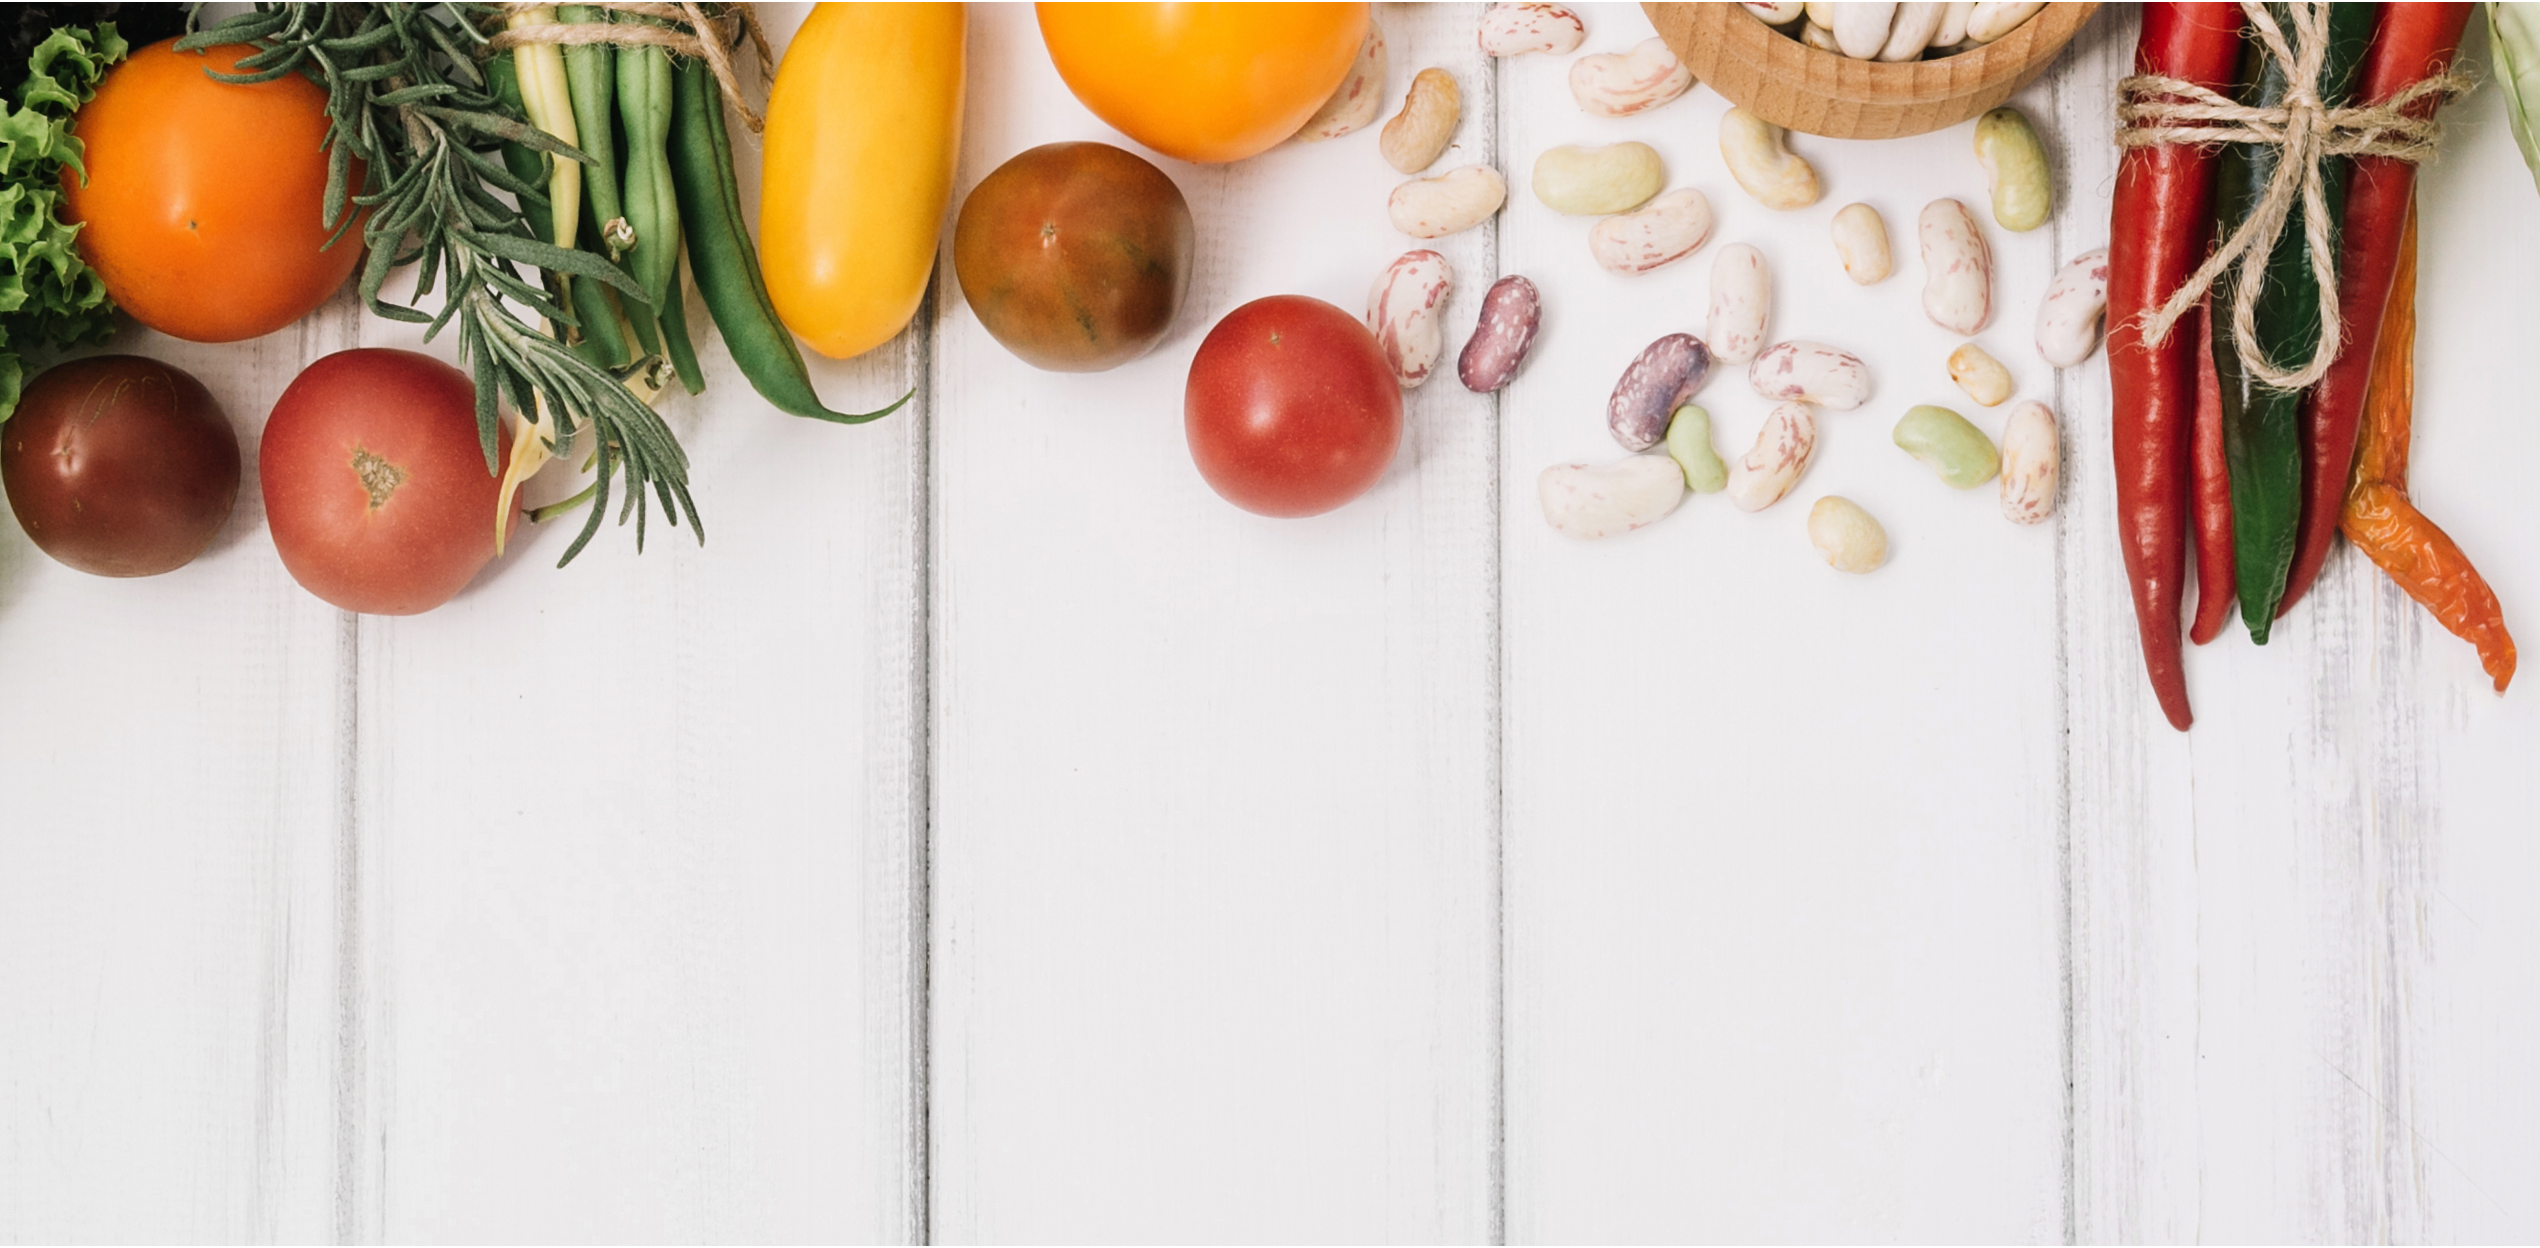
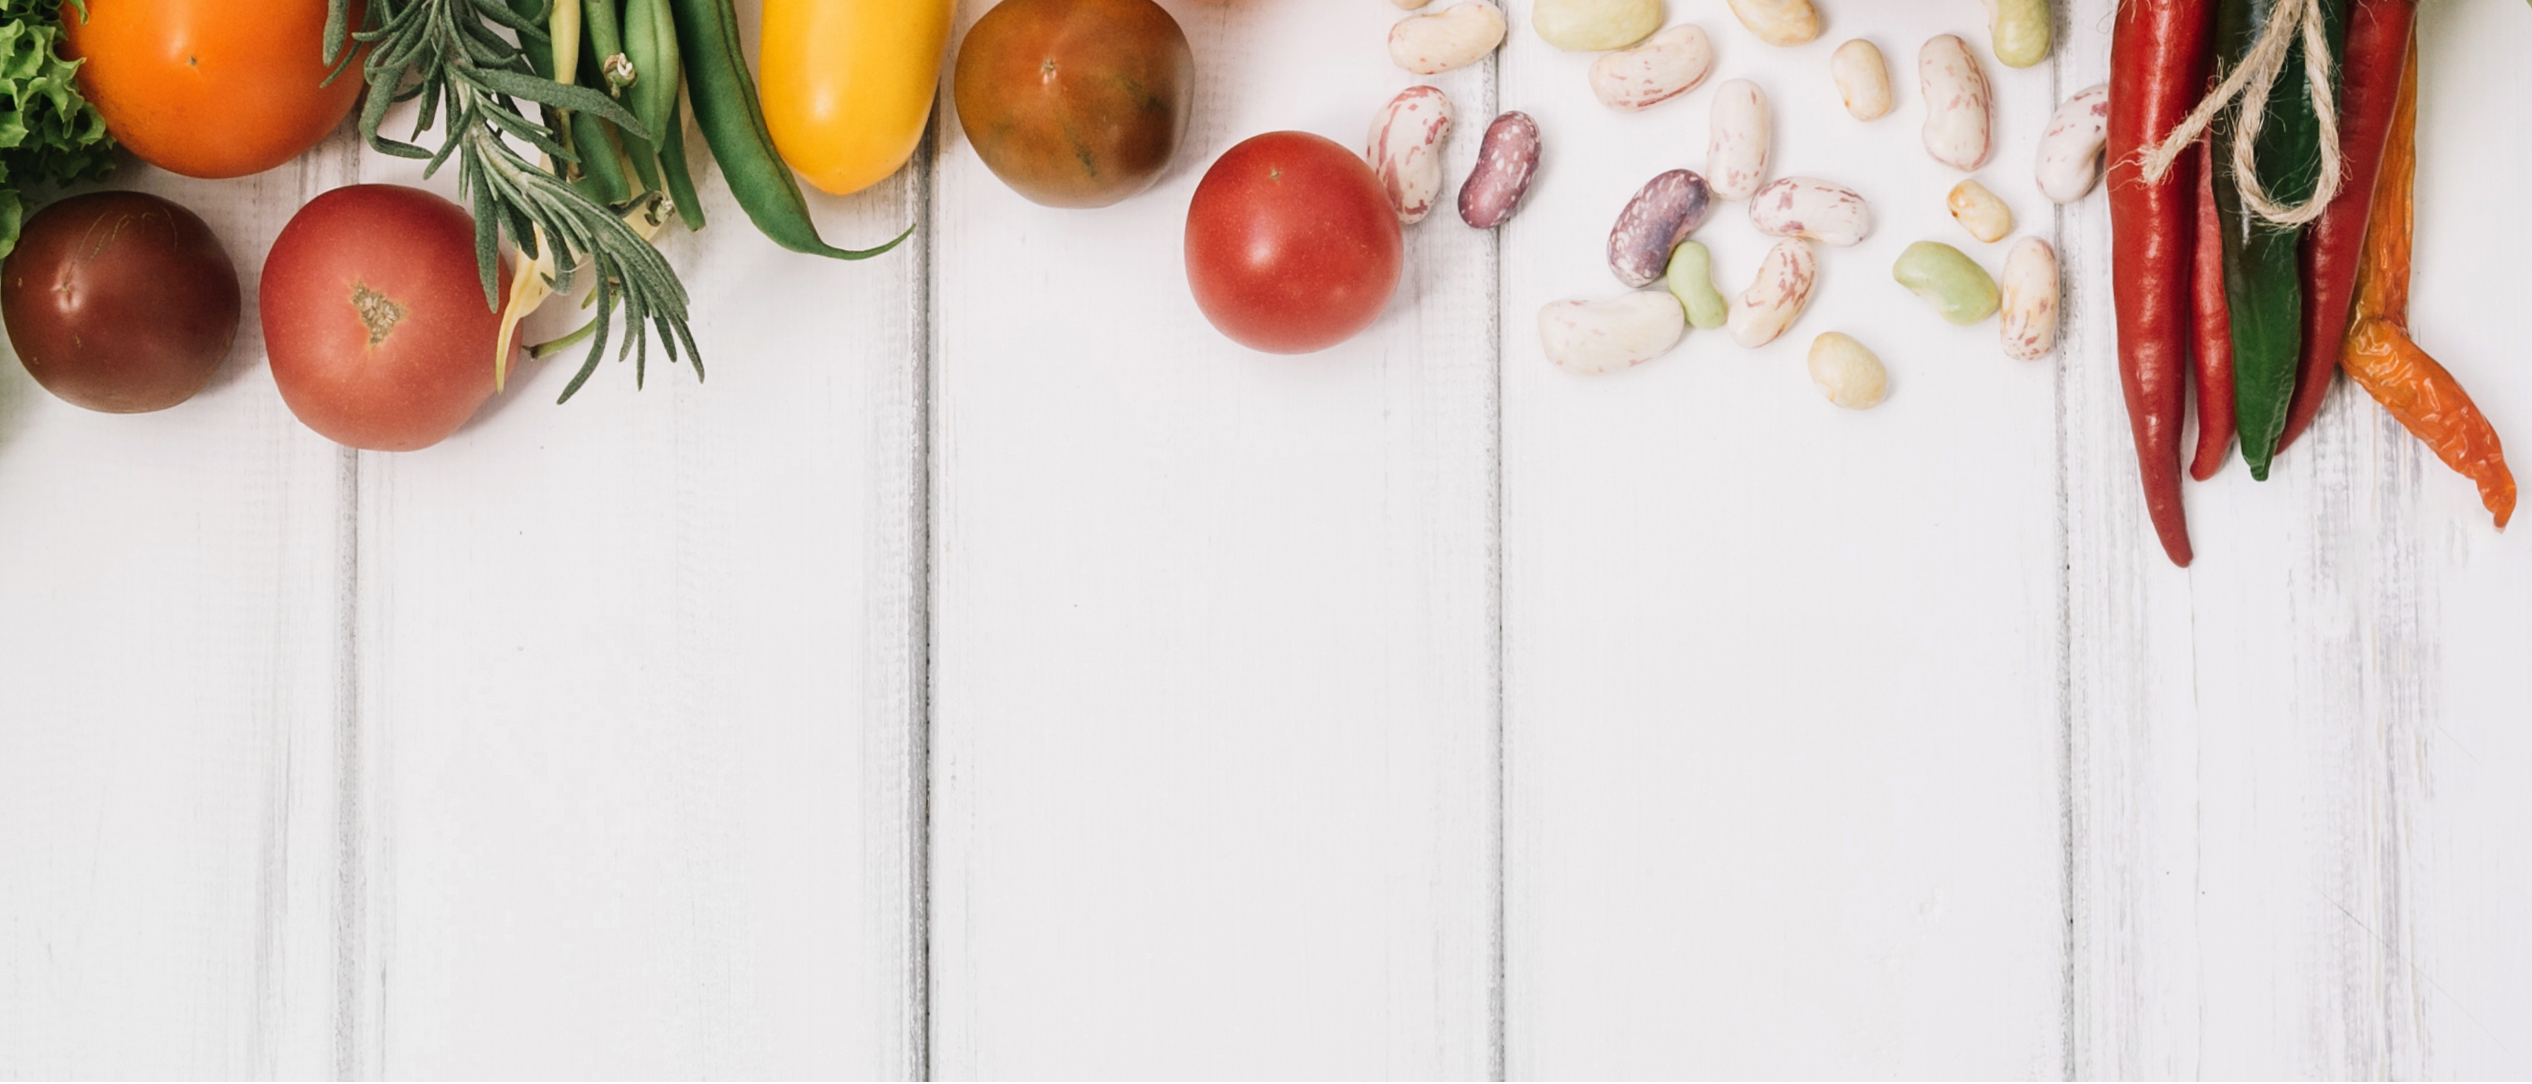
WIP hero picture responsive

diff --git a/css/style.css b/css/style.css
@@ -2,12 +2,17 @@
 /* HERO */
 #top-picture{
     background-image: url("background-picture.png");
-    height: 550px;
+    height: 650px;
     background-position: top center;
     background-repeat: no-repeat;
     background-size: cover;
     position: relative;
     margin: -8px;
+}
+@media (max-width: 600px) {
+    #top-picture{
+        height: 400px;
+    }
 }
 
 .hero {
@@ -15,15 +20,23 @@
     justify-content: center;
     top: 50%;
     left: 50%;
-    transform: translate(-50%, -35%);
+    transform: translate(-50%, -50%);
     background-color: rgba(255,255,255,0.8);
     border-radius: 10px;
-    padding: 20px;
+    padding: 0px 0px;
     text-align: center;
-    max-width: 45%;
+    width: 40%;
 }
-
+@media (max-width: 600px) {
+    .hero{
+        width: 80%;
+    }
+}
 .hero-h1{
+    line-height: 5px;
+    padding: 0px;
+}
+    /*{
     font-family: Arial, Helvetica, sans-serif;
     font-size: 46px;
     font-weight: 900;
@@ -35,6 +48,9 @@
     .hero-h1 {
         font-size: 26px;
     }
+}*/
+.daily-diet-logo{
+    max-width: 30%;
 }
 .hero-header-h2{
     font-family: Arial, Helvetica, sans-serif;
@@ -49,9 +65,9 @@
 }
 .hero-header-h3{
     font-family: Arial, Helvetica, sans-serif;
-    font-size: 22px;
+    font-size: 15px;
     font-weight: 300;
-    color: #8D0100;
+    color:#005A1F;
 }
 @media (max-width: 600px) {
     .hero-header-h3 {
@@ -59,7 +75,7 @@
     }
 }
 .btn {
-    background-color: #4CAF50;
+    background-color: darkgreen;
     border: none;
     color: white;
     padding: 15px 32px;
@@ -69,6 +85,6 @@
     border-radius: 3px;
 }
 .btn:hover{
-    background-color: darkgreen;
+    background-color: #005A1F;
     transition: background-color 0.2s;
 }

diff --git a/index.html b/index.html
@@ -4,14 +4,13 @@
     <meta charset="UTF-8">
     <meta name="viewport" content="width=device-width, initial-scale=1.0">
     <meta http-equiv="X-UA-Compatible" content="ie=edge">
-
+    <!--FAVICON-->
+    <link rel="icon" href="css/DD-logo.png" type="image/gif" sizes="20x20">
     <!-- CSS -->
     <link rel="stylesheet" href="css/style.css">
     <title>Daily Diet</title>
 </head>
 <body>
-
-
 
         <!-- NAV -->
         <nav class="nav">
@@ -22,13 +21,14 @@
         <section id="top-picture">
             <div class="hero">
 
-                <h1 class="hero-h1">DAILY DIET</h1>
+                <h1 class="hero-h1"><img src="css/DD-logo.png" class="daily-diet-logo"></h1>
 
-                <h2 class="hero-header-h2">Stay healthy with our Daily Diet help</h2>
+                <h2 class="hero-header-h2">Stay healthy with our help</h2>
+
+                <button type="button" class="hero-button btn">Submit!</button>
 
                 <h3 class="hero-header-h3">submit to keep fit</h3>
 
-                <button type="button" class="hero-button btn">Submit!</button>
             </div>
         </section>
 
